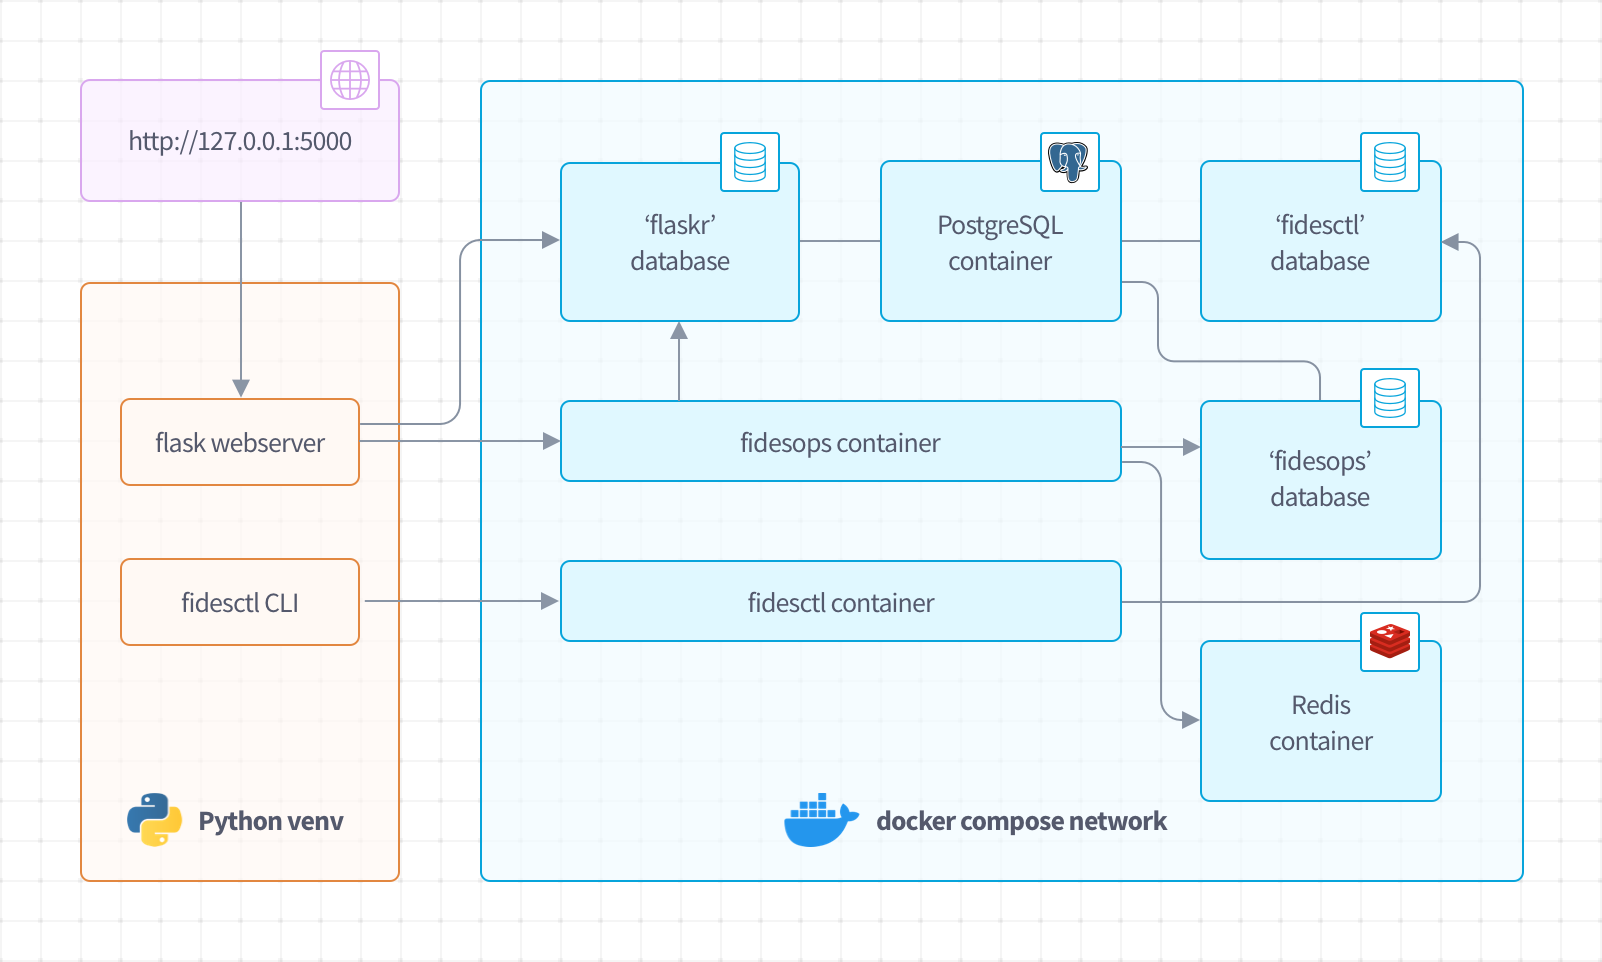
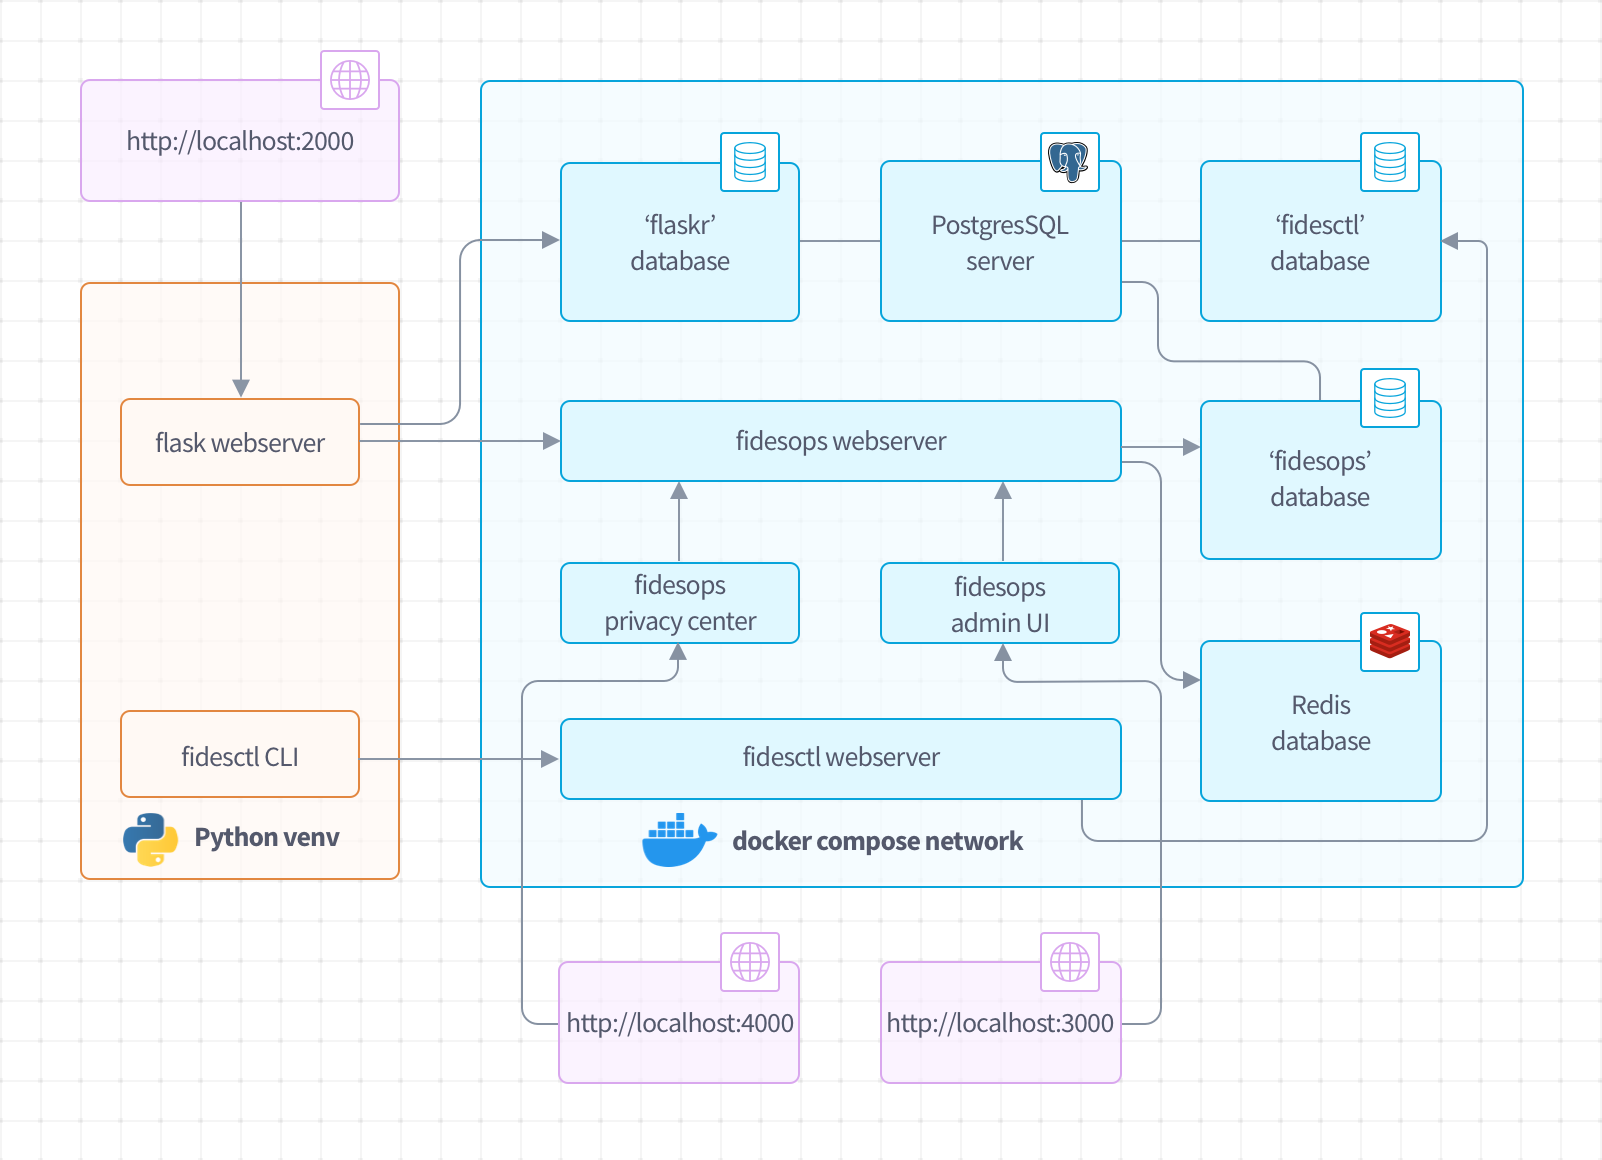
Add a demo visual to launch into other services, plus some more tidying

diff --git a/demo.html b/demo.html
@@ -1,0 +1,45 @@
+<!doctype html>
+
+<head>
+    <title>Fides Demo</title>
+    <link href="https://cdn.jsdelivr.net/npm/bootstrap@5.1.3/dist/css/bootstrap.min.css" rel="stylesheet" integrity="sha384-1BmE4kWBq78iYhFldvKuhfTAU6auU8tT94WrHftjDbrCEXSU1oBoqyl2QvZ6jIW3" crossorigin="anonymous">
+    <link rel="stylesheet" href="flaskr/static/style.css">
+</head>
+
+<body class="shadow-sm">
+    <nav class="navbar">
+        <div class="navbar-brand">
+            <img class="d-inline-block" src="flaskr/static/fides_logo_primary.png" /> Demo
+        </div>
+    </nav>
+    <section class="content">
+        <svg version="1.1" xmlns="http://www.w3.org/2000/svg" xmlns:xlink="http://www.w3.org/1999/xlink" viewBox="0 0 1602 1160">
+            <image width="1602" height="1160" xlink:href="fidesdemo.png"></image>
+            <a xlink:href="http://localhost:2000" target="_blank">
+              <rect x="80" y="80" fill="#fff" opacity="0" width="320" height="124"></rect>
+            </a>
+            <a xlink:href="http://localhost:3000" target="_blank">
+              <rect x="880" y="960" fill="#fff" opacity="0" width="240" height="124"></rect>
+            </a>
+            <a xlink:href="http://localhost:4000" target="_blank">
+              <rect x="560" y="960" fill="#fff" opacity="0" width="240" height="124"></rect>
+            </a>
+        </svg>
+        <hr/>
+        <header>
+            <h5>Links</h5>
+        </header>
+        <ul class="list-group">
+            <a class="list-group-item list-group-item-action" href="http://localhost:2000" target="_blank">Flask Webserver</a>
+            <a class="list-group-item list-group-item-action" href="http://localhost:3000" target="_blank">Fidesops Admin UI</a>
+            <a class="list-group-item list-group-item-action" href="http://localhost:4000" target="_blank">Fidesops Privacy Center</a>
+            <a class="list-group-item list-group-item-action" href="http://localhost:8080/docs" target="_blank">Fidesops API Documentation</a>
+            <a class="list-group-item list-group-item-action" href="http://localhost:9090/docs" target="_blank">Fidesctl API Documentation</a>
+        </ul>
+        <map name="map">
+            <area target="" alt="privacy-center" title="privacy-center" href="http://localhost:4000" coords="802,1084,558,959" shape="rect">
+            <area target="" alt="admin-ui" title="admin-ui" href="http://localhost:3000" coords="882,959,1122,1084" shape="rect">
+            <area target="" alt="flaskr" title="flaskr" href="http://localhost:2000" coords="81,82,398,202" shape="rect">
+        </map>
+    </section>
+</body>

diff --git a/flaskr/fidesops.py b/flaskr/fidesops.py
@@ -610,7 +610,7 @@ def print_results(privacy_request_id):
     Check to see if a result JSON for the given privacy request exists, and
     print it to the console if so.
     """
-    results_path = f"fides_uploads/{privacy_request_id}.json"
+    results_path = f"fides_tmp/{privacy_request_id}.json"
     wait_time = 0
     print(
         f"Waiting for fidesops privacy request results to upload to {results_path}..."
@@ -621,7 +621,7 @@ def print_results(privacy_request_id):
             logger.info(
                 f"Successfully read fidesops privacy request results from {results_path}:"
             )
-            with open(f"fides_uploads/{privacy_request_id}.json", "r") as file:
+            with open(f"fides_tmp/{privacy_request_id}.json", "r") as file:
                 results_json = json.loads(file.read())
                 print(json.dumps(results_json, indent=4))
             return

diff --git a/README.md b/README.md
@@ -81,24 +81,6 @@ flaskr=# SELECT * FROM purchases;
   1 | 2020-01-04 12:00:00 |          1 |        2 | 123 Example St | Apt 123  | Exampletown | NY    | 12345
 (1 row)
 ```
-
-## Tutorial Steps
-
-The full walkthrough for setting up this demo project can be found in two parts:
-
-1. Setting up `fidesctl`: https://ethyca.github.io/fides/tutorial/
-1. Setting up `fidesops`: https://ethyca.github.io/fidesops/tutorial/
-
-You can also recreate the tutorial steps by checking out the different git tags:
-
-1. `git checkout tutorial-start` to start from the beginning with just the basic Flask app
-1. `git checkout fidesctl-start` to rewind to when `fidesctl` is installed but not used
-1. `git checkout fidesctl-manifests` to start from an initial set of `fidesctl` manifests
-1. `git checkout fidesctl-add-google-analytics` to view an example of a `fidesctl` manifest that fails a policy
-1. `git checkout fidesctl-demo` to view the working demo of `fidesctl evaluate` against a few example manifests
-1. `git checkout fidesops-start` to have `fidesops` installed but not used
-1. `git checkout fidesops-demo` to view the final version with `fidesops` executing privacy requests
-
 ## License
 
 This project is licensed under the Apache Software License Version 2.0.
